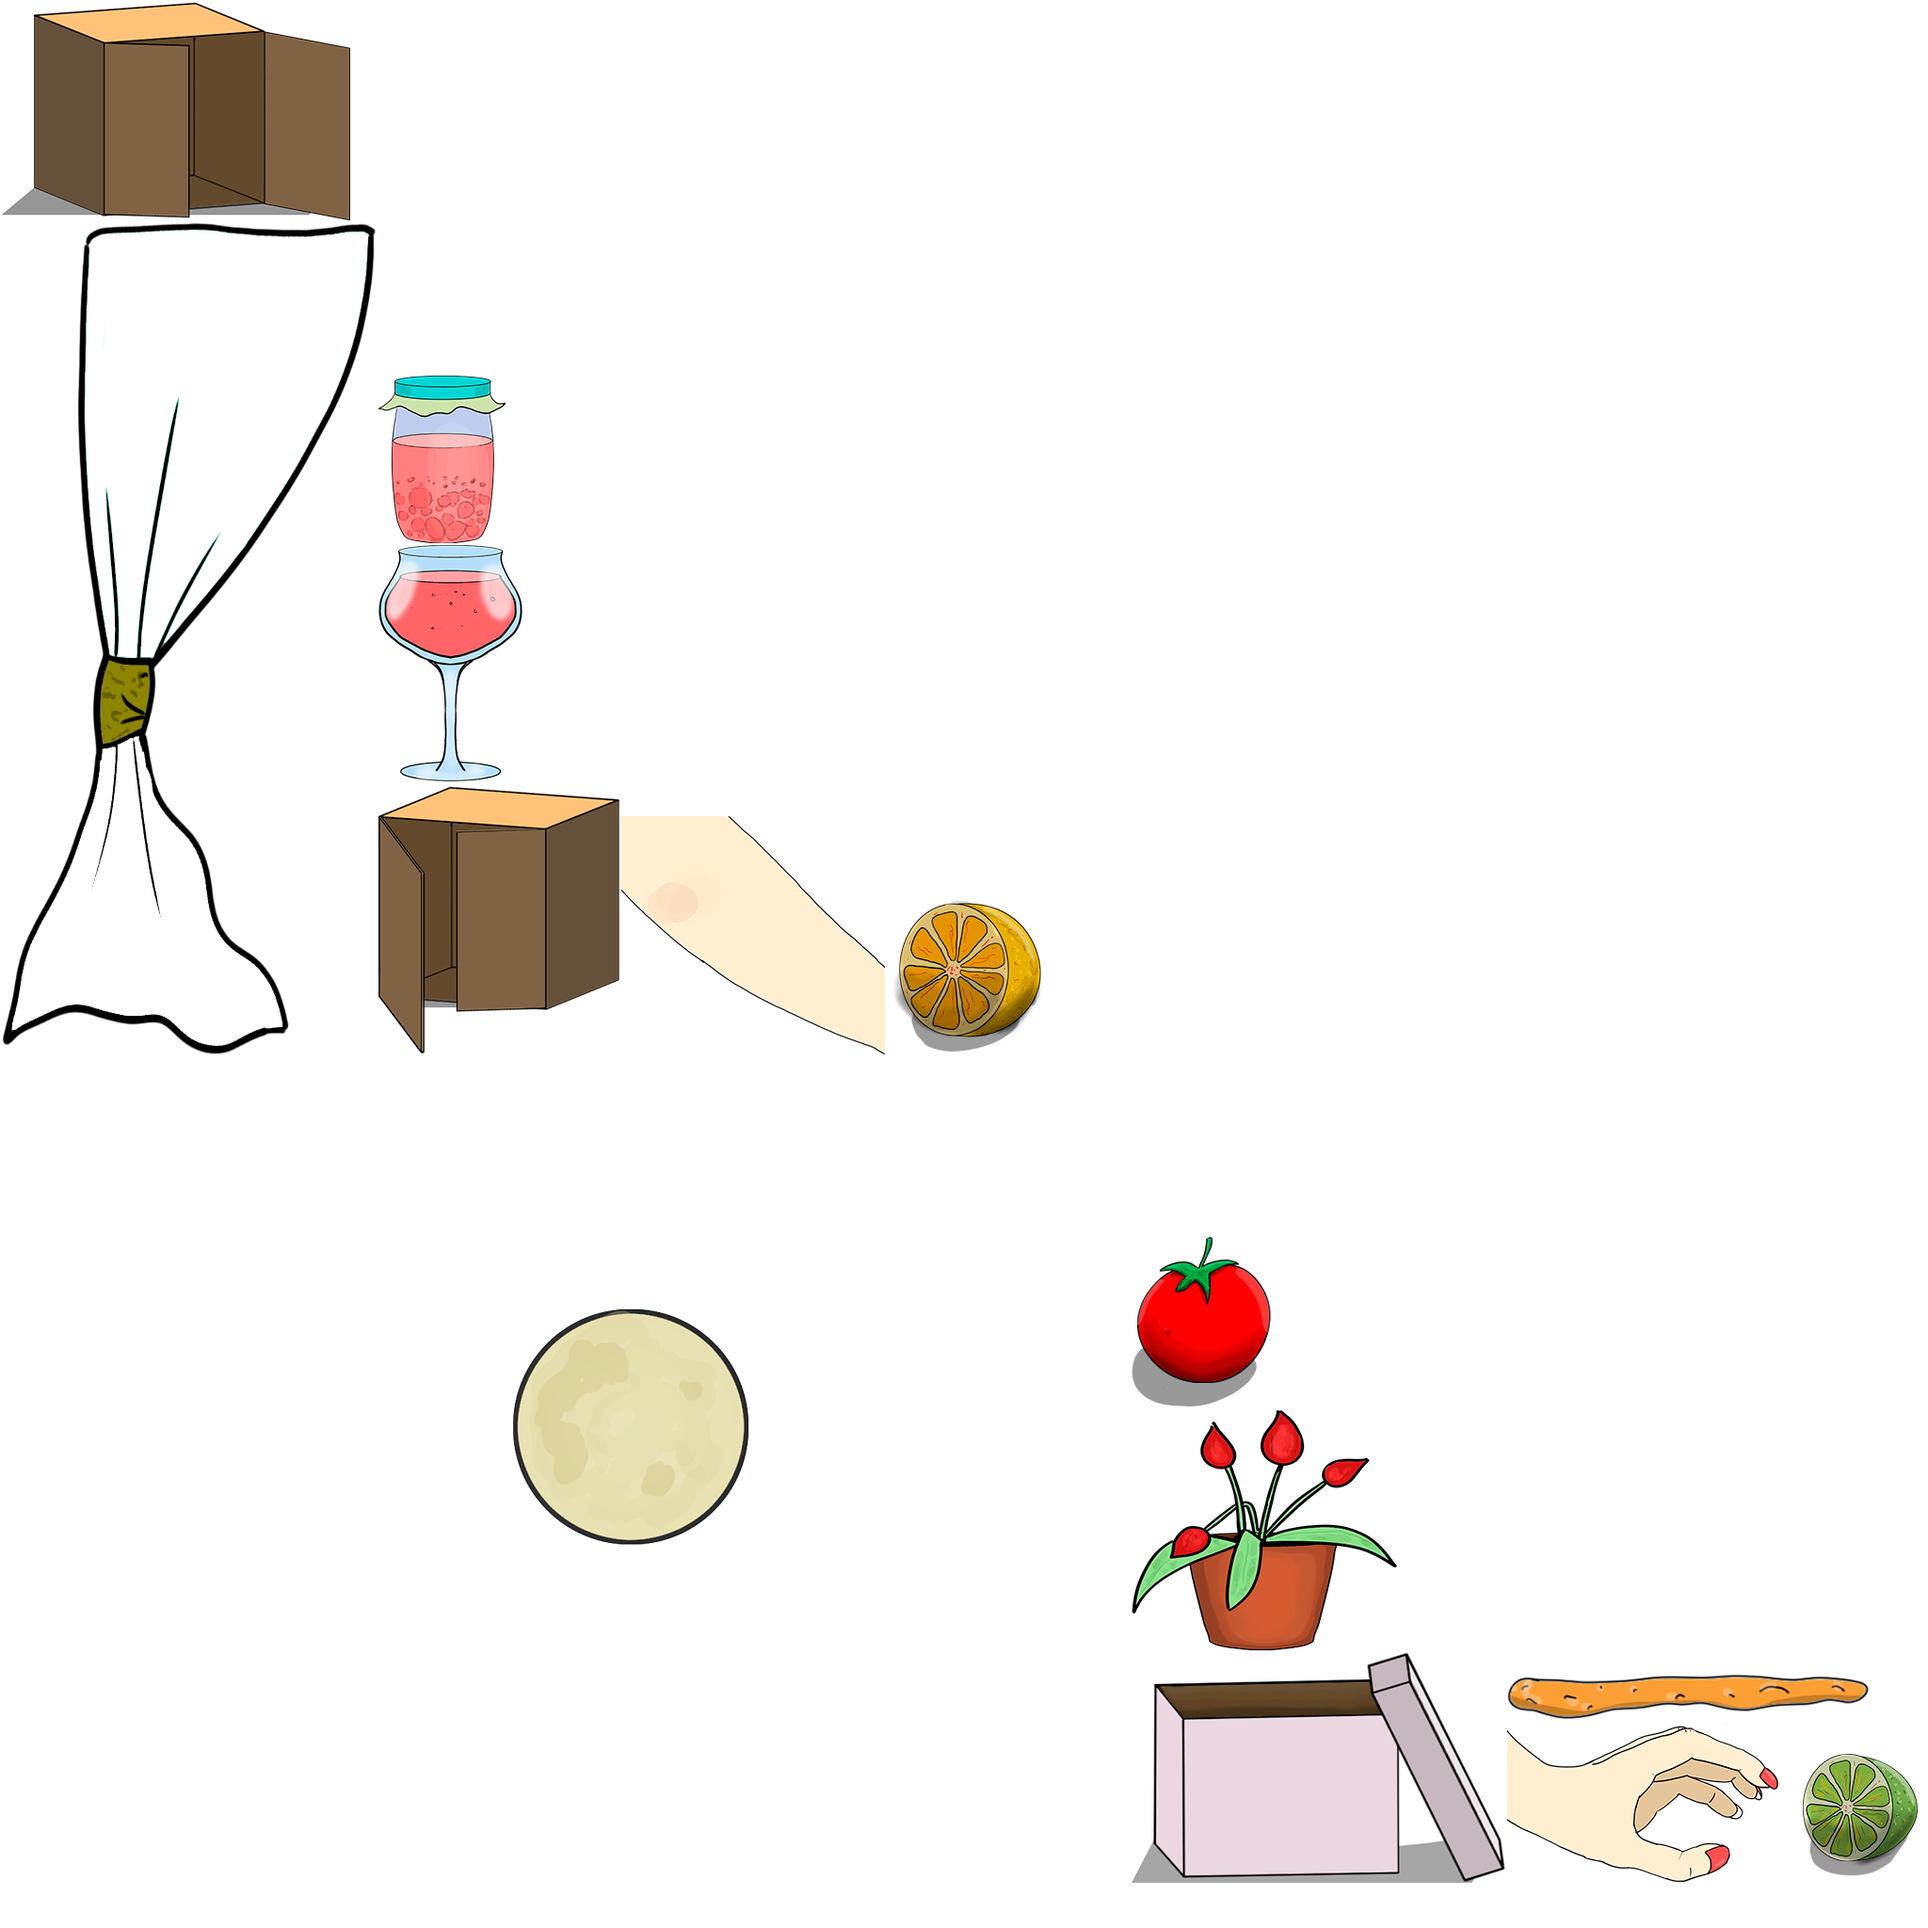
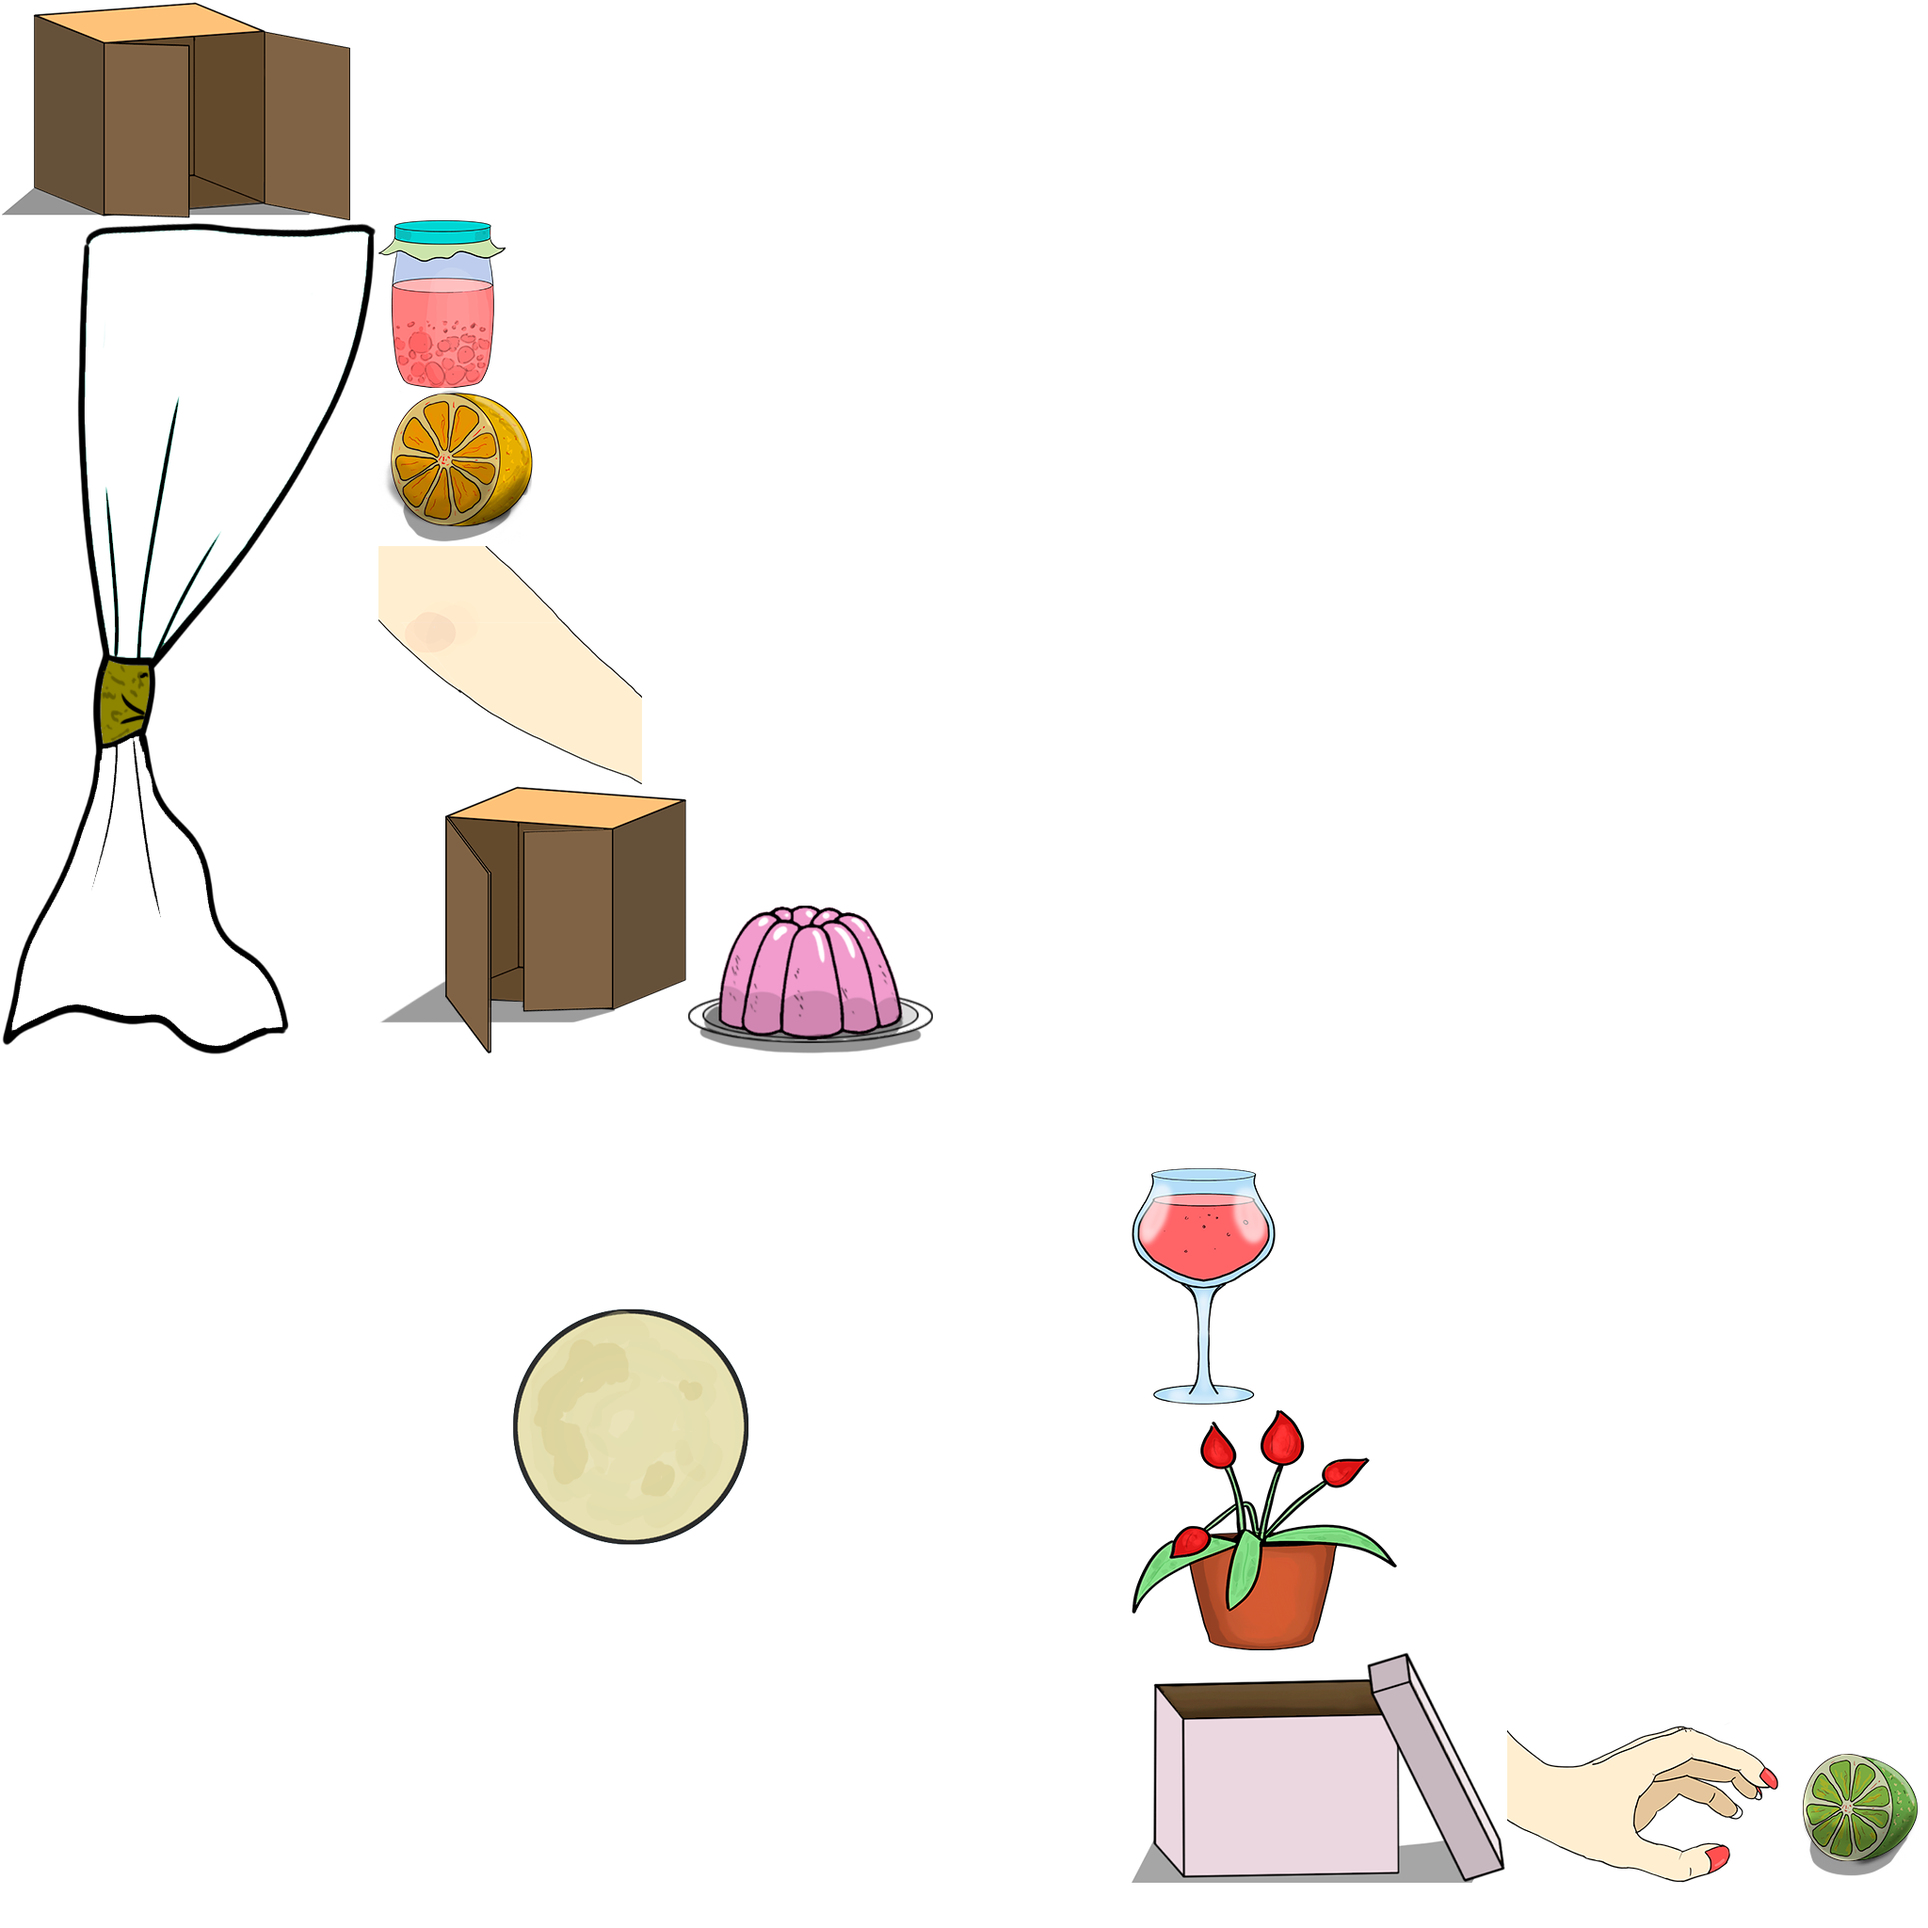
(fix) fix table items textures

Changed region(s): [[0.1875, 0.0938, 0.5625, 0.5625], [0.5625, 0.5938, 0.6875, 0.75], [0.7812, 0.8438, 0.9688, 0.9062]]

diff --git a/core/src/com/mygdx/game/actors/game/RandomTableItem.kt b/core/src/com/mygdx/game/actors/game/RandomTableItem.kt
@@ -93,13 +93,13 @@ class RandomTableItem(private val manager : AssetManager,
     }
 
     private fun setRandomItem(){
-        when(5){//rand.nextInt(15)
+        when(rand.nextInt(14)){//rand.nextInt(15)
             1 -> {
                 region = texture.findRegion(Assets.EnvironmentAtlas.BOX1)
                 val boundHeight = region.originalHeight.toFloat() - 25 - 20
                 val boundWidth = region.originalWidth.toFloat() - 100 - 92
                 startBound = Rectangle(92f, 25f, boundWidth, boundHeight)
-                y = table.worktopY - 25f
+                y = table.worktopY - 45f
                 jumpOnSound = Sound.JUMP_ON_BOX
                 structure = Structure.NORMAL
             }
@@ -115,8 +115,8 @@ class RandomTableItem(private val manager : AssetManager,
             3 -> {
                 region = texture.findRegion(Assets.EnvironmentAtlas.BOX3)
                 val boundHeight = region.originalHeight.toFloat() - 70 - 23
-                val boundWidth = region.originalWidth.toFloat() - 35
-                startBound = Rectangle(0f, 70f, boundWidth, boundHeight)
+                val boundWidth = region.originalWidth.toFloat() - 35 - 70
+                startBound = Rectangle(70f, 70f, boundWidth, boundHeight)
                 y = table.worktopY - 70
                 jumpOnSound = Sound.JUMP_ON_BOX
                 structure = Structure.NORMAL
@@ -124,9 +124,9 @@ class RandomTableItem(private val manager : AssetManager,
             4 -> {
                 region = texture.findRegion(Assets.EnvironmentAtlas.BOX4)
                 val boundHeight = region.originalHeight.toFloat() - 20
-                val boundWidth = region.originalWidth.toFloat() - 10
-                startBound = Rectangle(0f, 0f, boundWidth, boundHeight)
-                y = table.worktopY - 25
+                val boundWidth = region.originalWidth.toFloat() - 10 - 50
+                startBound = Rectangle(50f, 0f, boundWidth, boundHeight)
+                y = table.worktopY - 30
                 jumpOnSound = Sound.JUMP_ON_BOX
                 structure = Structure.NORMAL
             }
@@ -142,9 +142,9 @@ class RandomTableItem(private val manager : AssetManager,
             6 -> {
                 region = texture.findRegion(Assets.EnvironmentAtlas.YOGURT_BOX)
                 val boundHeight = region.originalHeight.toFloat()
-                val boundWidth = region.originalWidth.toFloat()
-                startBound = Rectangle(0f, 0f, boundWidth, boundHeight)
-                y = table.worktopY
+                val boundWidth = region.originalWidth.toFloat() - 95
+                startBound = Rectangle(95f, 0f, boundWidth, boundHeight)
+                y = table.worktopY - 30
                 jumpOnSound = Sound.JUMP_ON_BOX
                 structure = Structure.NORMAL
             }
@@ -208,20 +208,21 @@ class RandomTableItem(private val manager : AssetManager,
                 y = table.worktopY - 35f
                 structure = Structure.JELLY
             }
-            14-> {
+/*            14-> {
                 region = texture.findRegion(Assets.EnvironmentAtlas.OPEN_BOX)
                 val boundHeight = region.originalHeight.toFloat() - 35 - 15
                 val boundWidth = region.originalWidth.toFloat() - 90 - 32
                 startBound = Rectangle(32f, 25f, boundWidth, boundHeight)
                 y = table.worktopY - 35f
                 structure = Structure.NORMAL
-            }
+            }*/
             else -> {
-                region = texture.findRegion(Assets.EnvironmentAtlas.BOX2)
-                val boundHeight = region.originalHeight.toFloat() - 35 - 15
-                val boundWidth = region.originalWidth.toFloat() - 90 - 32
-                startBound = Rectangle(32f, 25f, boundWidth, boundHeight)
-                y = table.worktopY - 35f
+                region = texture.findRegion(Assets.EnvironmentAtlas.BOX4)
+                val boundHeight = region.originalHeight.toFloat() - 20
+                val boundWidth = region.originalWidth.toFloat() - 10 - 50
+                startBound = Rectangle(50f, 0f, boundWidth, boundHeight)
+                y = table.worktopY - 30
+                jumpOnSound = Sound.JUMP_ON_BOX
                 structure = Structure.NORMAL
             }
         }
@@ -238,7 +239,7 @@ class RandomTableItem(private val manager : AssetManager,
         val width = region.originalWidth.toFloat()
         val height = region.originalHeight.toFloat()
         if(startAct) batch!!.draw(region, x, y, x,y,  width, height, scaleX, scaleY, rotation)
-        debugIfEnable(batch, manager)
+        debugCollidesIfEnable(batch, manager)
     }
 
     private fun isGoThrough(actor: Actor) {

diff --git a/core/src/com/mygdx/game/actors/game/Cookie.kt b/core/src/com/mygdx/game/actors/game/Cookie.kt
@@ -76,7 +76,6 @@ class Cookie(private val manager : AssetManager,
             move.update(delta)
             controlCookieVelocity()
         }
-        rectangle.set(x, y, width, height)
     }
 
     private fun updateGravity(){
@@ -122,7 +121,7 @@ class Cookie(private val manager : AssetManager,
         if(isHide.not()) {
             batch.draw(currentFrame, x, y, width, height)
         }
-        debugIfEnable(batch, manager)
+        debugCollidesIfEnable(batch, manager)
     }
 
     fun isFalling() = state == State.FALL
@@ -165,7 +164,7 @@ class Cookie(private val manager : AssetManager,
                  setOnTop(obj)
                  obj.jumpedOn()
             }else if(isForward(obj)){
-                 againstThe(obj)
+                 setAgainstTheObject(obj)
             }
         }
         if(isAfter(obj) && state == State.RUN){
@@ -215,9 +214,14 @@ class Cookie(private val manager : AssetManager,
         move.update(speed = ScrollSpeed.SLOW_MOVE)
     }
 
-    private fun againstThe(obj : RandomTableItem) {move.setX(obj.getBoundsRect().x - width)}
+    private fun setAgainstTheObject(obj : RandomTableItem) {
+        move.setX(obj.getBoundsRect().x - getBoundsRect().width - 35)
+    }
 
-    override fun getBoundsRect() = rectangle
+    override fun getBoundsRect(): Rectangle{
+        rectangle.set(x + 30, y, width - 60, height)
+        return rectangle
+    }
 
     override fun animate(type: AnimationType, runAfter: Runnable) {
         if(type == AnimationType.SHOW_ON_SCENE){

diff --git a/core/src/com/mygdx/game/api/Physical.kt b/core/src/com/mygdx/game/api/Physical.kt
@@ -19,10 +19,11 @@ interface Physical{
         return false
     }
 
-    fun debugIfEnable(batch: Batch?, manager: AssetManager){
+    fun debugCollidesIfEnable(batch: Batch?, manager: AssetManager){
         if(!GameSettings.DEBUG.state) return
         val texture = manager.get(Descriptors.environment)
         val bound = getBoundsRect()
-        batch?.draw(texture.findRegion(Assets.EnvironmentAtlas.SHADOW), bound.x, bound.y, bound.width, bound.height)
+        val region = texture.findRegion(Assets.EnvironmentAtlas.SHADOW)
+        batch?.draw(region, bound.x, bound.y, bound.width, bound.height)
     }
 }

diff --git a/core/src/com/mygdx/game/GdxGame.kt b/core/src/com/mygdx/game/GdxGame.kt
@@ -10,7 +10,7 @@ class GdxGame : Game() {
     override fun create() {
         ScreenManager.game = this
         ScreenManager.setScreen(GAME_SCREEN)
-        GameSettings.DEBUG.state = true
+        GameSettings.DEBUG.state = false
     }
 
     override fun render() {
